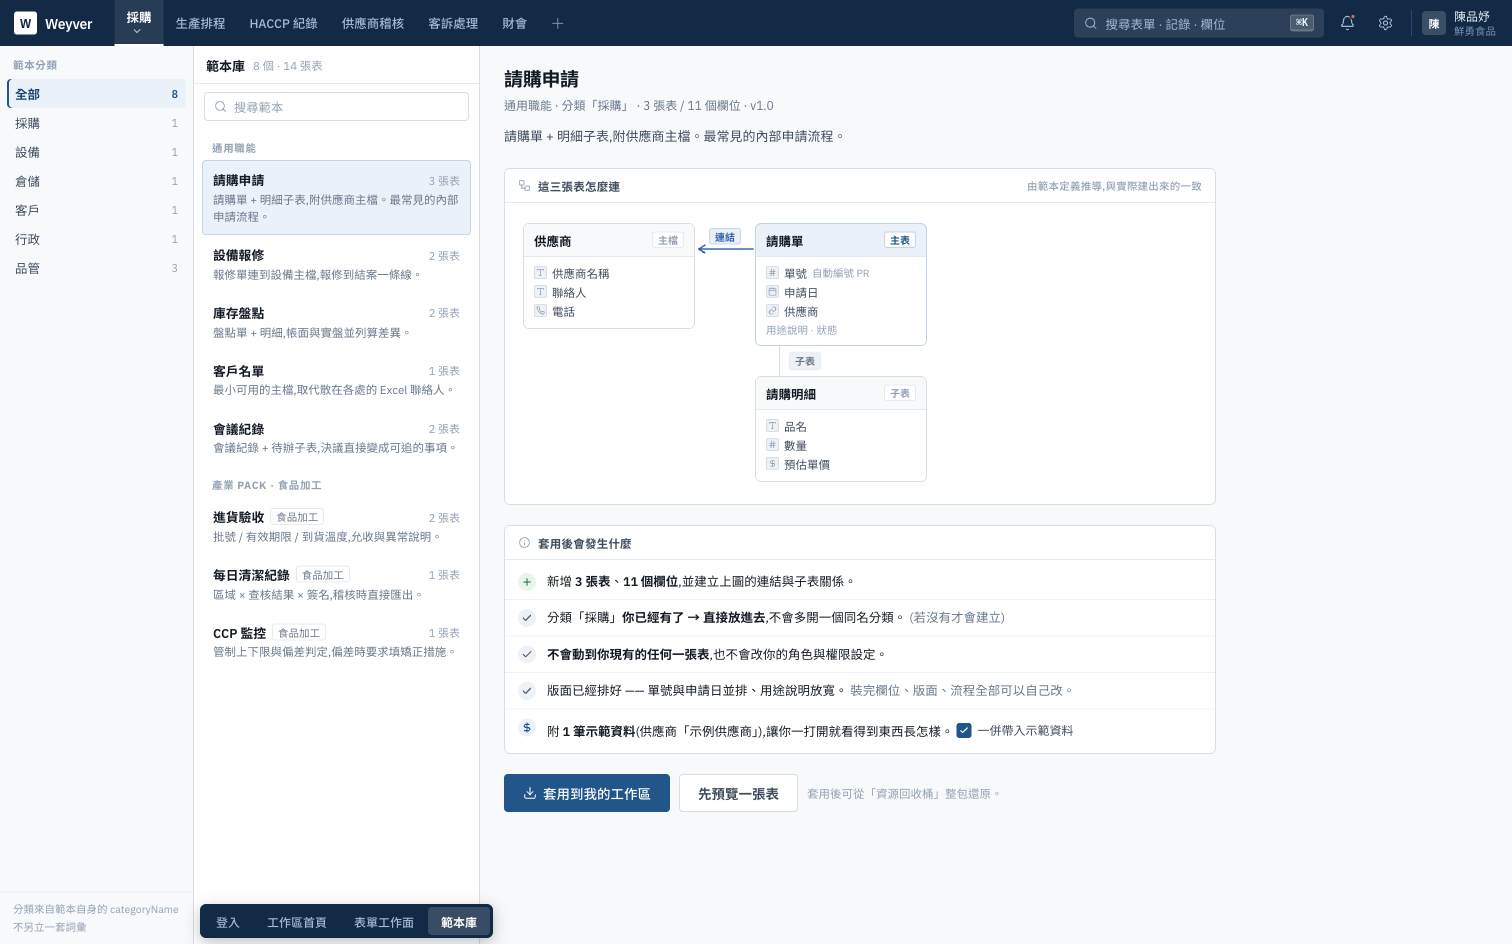
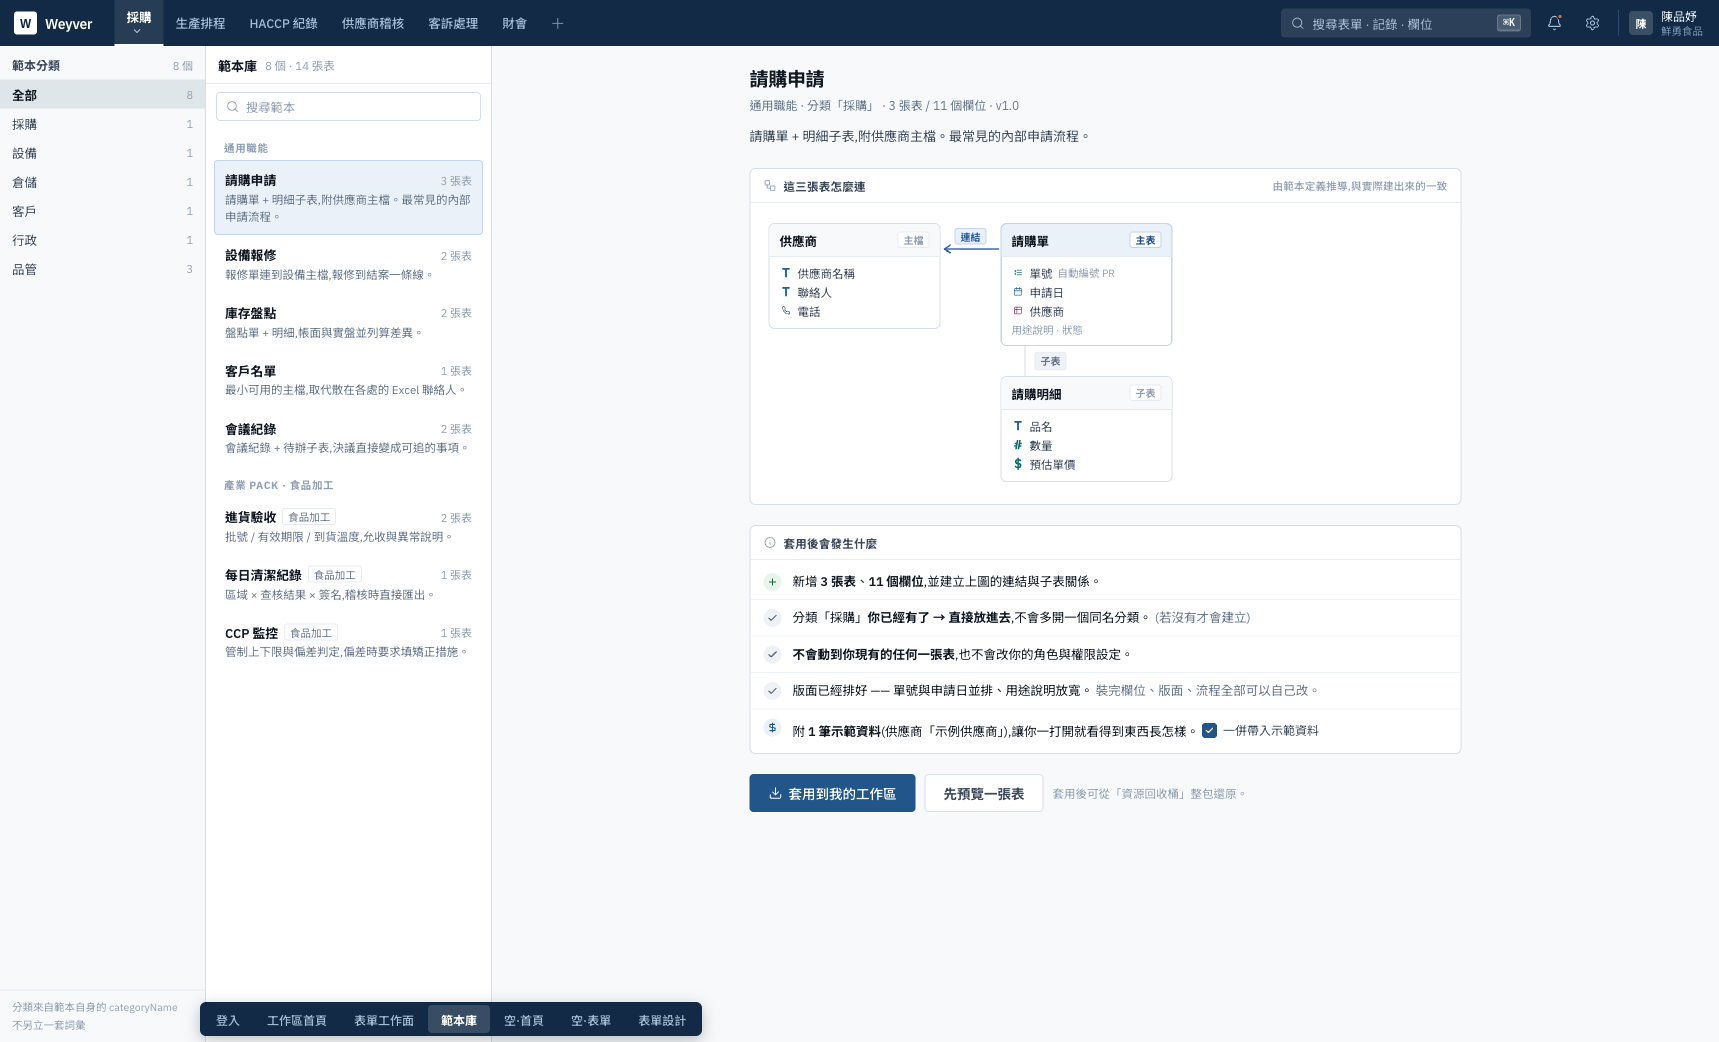
docs(design): 範本庫詳情置中(.tdet)
決策方指定 display:flex + justify-content:center。

順帶處理兩件它會帶出來的:
· **align-items 不能吃預設的 stretch** —— 那會把 .inner 拉到與容器等高,
  內容短時底部留一大塊由 .inner 佔著的空白(它有 padding 與背景就看得出來)。
  改 flex-start。
· .inner 加 flex:1,讓它在 760 上限內拿滿寬,而不是縮到內容寬。

Playwright 量過:面板中心 1106 / 內容中心 1106,寬 760 卡在上限,捲動未受影響。
撞名檢查全綠。

diff --git a/docs/mockups/weyver-v2.html b/docs/mockups/weyver-v2.html
@@ -707,8 +707,13 @@ a:hover{text-decoration:underline;}
   color:var(--ink-4);text-transform:uppercase;}
 
 /* 右欄:詳情 */
-.tdet{flex:1;min-width:0;overflow-y:auto;background:var(--paper-2);}
-.tdet .inner{max-width:760px;padding:18px 24px 40px;}
+/* 詳情置中(2026-08-08 決策方指定)。
+   ⚠ `align-items` 不能吃預設的 stretch —— 那會讓 .inner 被拉到與容器等高,
+      內容短時底部留一大塊由 .inner 佔著的空白,而它有背景就會看得出來。
+      改 flex-start,並讓 .inner 自己 flex:1 拿到 760 上限內的寬。 */
+.tdet{flex:1;min-width:0;overflow-y:auto;background:var(--paper-2);
+  display:flex;justify-content:center;align-items:flex-start;}
+.tdet .inner{flex:1;max-width:760px;padding:18px 24px 40px;}
 .tdet .th{display:flex;align-items:flex-start;gap:12px;}
 .tdet .th h1{font-size:19px;font-weight:600;letter-spacing:-.3px;}
 .tdet .th .meta{margin-top:4px;font-size:12px;color:var(--ink-3);}
